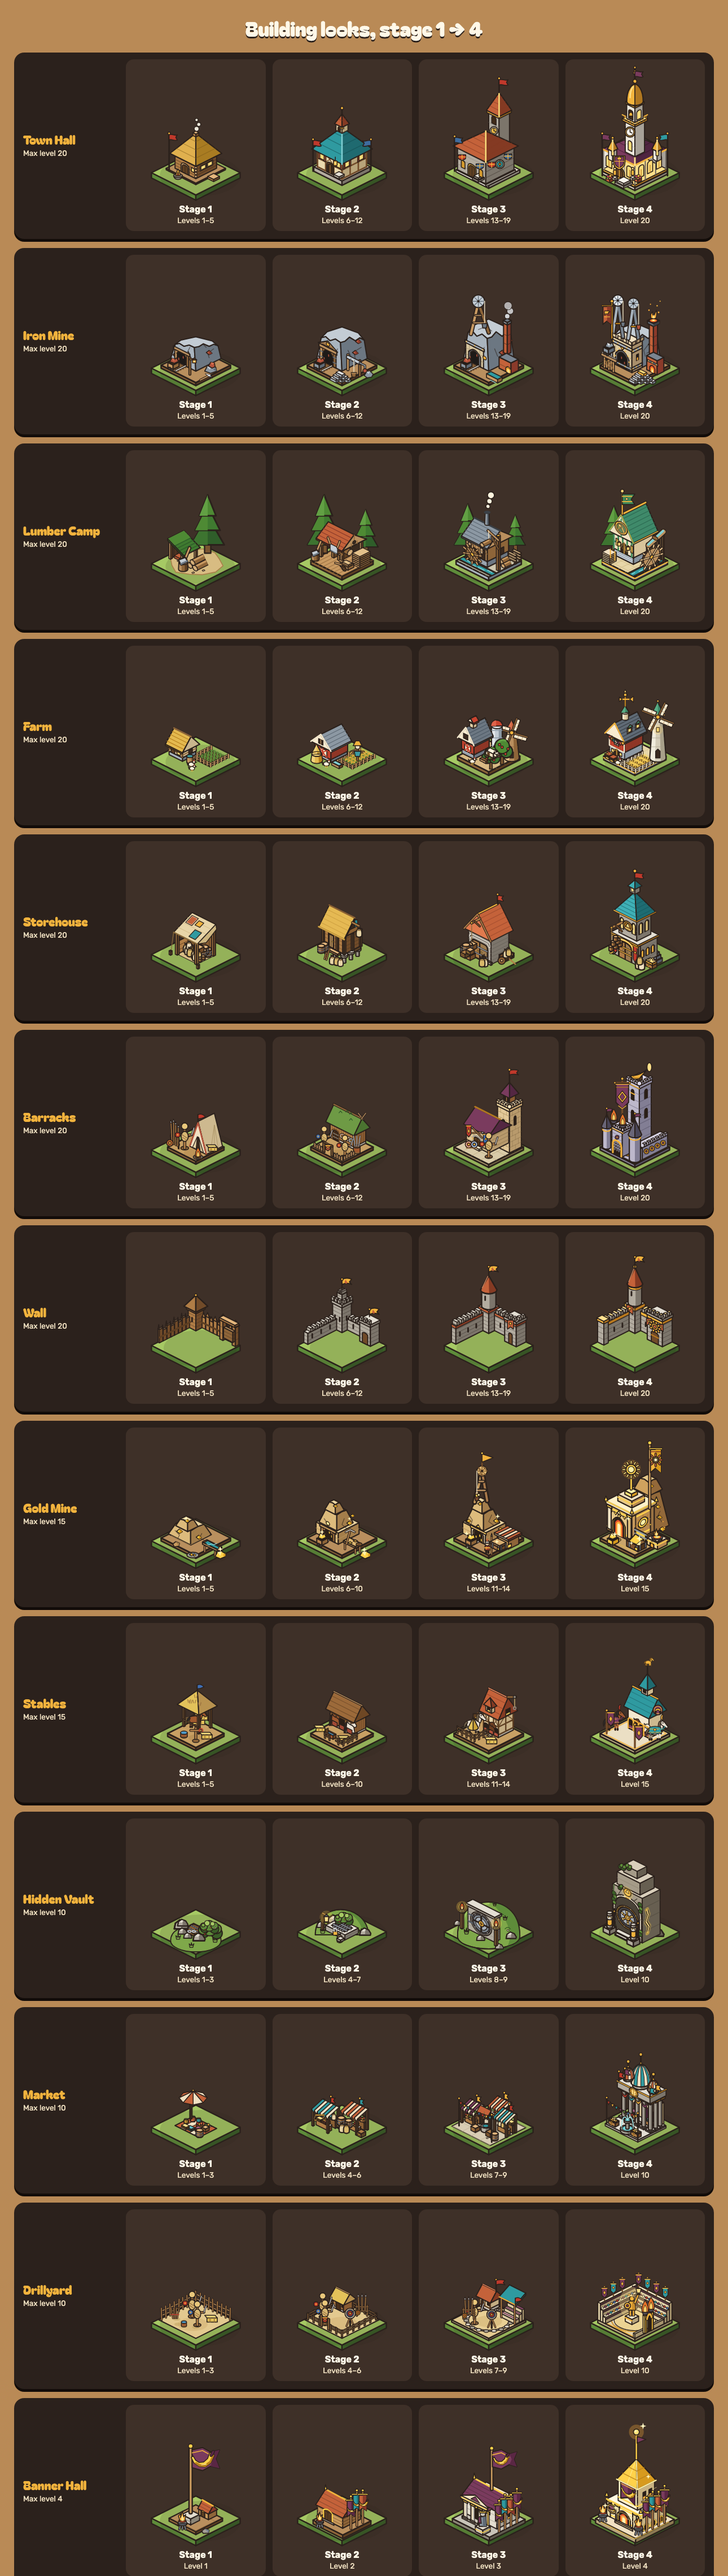
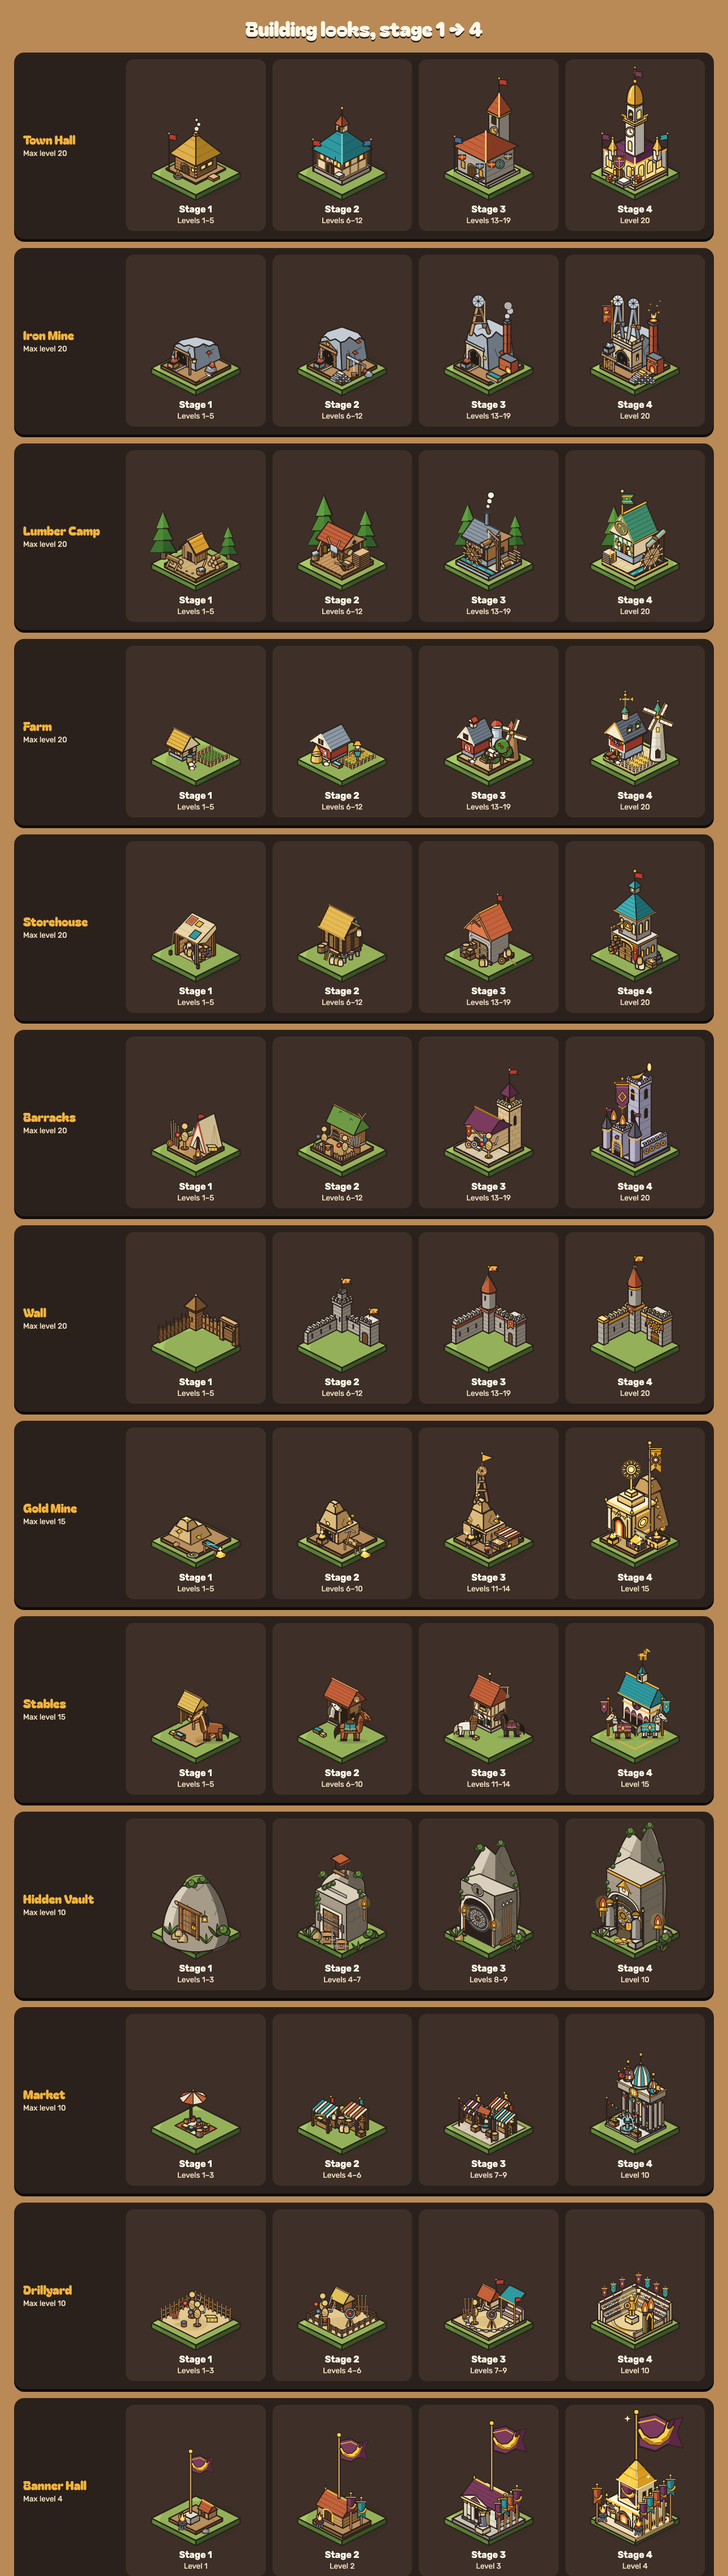
Docs: changelog and next steps for the building art touch-ups; comparison images

diff --git a/design/proposals/building-stages/compare.html b/design/proposals/building-stages/compare.html
@@ -38,7 +38,10 @@ const B = [
 const v = Date.now();
 const src = f => `../../../apps/web/src/art/buildings/${f}.svg?v=${v}`;
 const r = (a,b) => a===b ? `Level ${a}` : `Levels ${a}–${b}`;
-document.getElementById('list').innerHTML = B.map(([n,f,max,t1,t2,nw]) => {
+// ?only=stables,farm shows just those buildings (by file stem).
+const only = new URLSearchParams(location.search).get('only');
+const pick = only ? B.filter(b => only.split(',').includes(b[1])) : B;
+document.getElementById('list').innerHTML = pick.map(([n,f,max,t1,t2,nw]) => {
   const ranges = [r(1,t1), r(t1+1,t2), r(t2+1,max-1), r(max,max)];
   return `<div class="b"><div class="name">${n}<small>Max level ${max}</small></div>` +
     ranges.map((rg,i) => `<div class="st"><img src="${src(f+'-'+(i+1))}" data-f="${f}" data-s="${i+1}" alt="${n} stage ${i+1}"><b>Stage ${i+1}</b><span>${rg}</span></div>`).join('') +

diff --git a/NEXT_STEPS.md b/NEXT_STEPS.md
@@ -3,7 +3,7 @@
 Current open work and decisions only (history goes in `CHANGELOG.md`). Newest priorities first.
 
 ## Decisions for the owner
-- **New building art (4 looks, 2026-11-06, `4e0d484`): owner to touch up.** All 13 redrawn; compare at `design/proposals/building-stages/compare.html` (image `building-looks-compare.png`). Viewed in the village at stages 2 and 4 (360 + 1440 px); stages 1 and 3 only on the sheet. Known small issues: Farm 3 crowded, Storehouse 4 tall and slim, Stables 2 horse heads tiny, Barracks/Farm/Gold Mine/Banner Hall look 4 files 13–14.5 KB; stage-4 labels use the stage-3 roof height (`ROOF_TOP` in `buildings.ts`); map-view village sprites are unchanged. Homepage mockup (`design/proposals/homepage/`) waits until the owner returns to it.
+- **New building art (4 looks, 2026-11-06, `4e0d484`): owner to touch up.** All 13 redrawn; compare at `design/proposals/building-stages/compare.html` (image `building-looks-compare.png`). Viewed in the village at stages 2 and 4 (360 + 1440 px); stages 1 and 3 only on the sheet. Owner touch-ups done for Lumber Camp 1, Stables, Hidden Vault, Banner Hall (`bdf9549`). Known small issues: Farm 3 crowded, Storehouse 4 tall and slim, Stables horses large next to the building, Vault 4 guardians cover part of the gold door, several look-3/4 files 13–14.7 KB; stage-4 labels use the stage-3 roof height (`ROOF_TOP` in `buildings.ts`); map-view village sprites are unchanged. Homepage mockup (`design/proposals/homepage/`) waits until the owner returns to it.
 - **Raiding balance (2026-11-06, BALANCE.md §11).** With about 2 abandoned villages per new player the sim raider scores 2.07x the builder, 2nd village day 18.9 (targets 1.5-2x, day 21-28). Owner may go to ~1.4 per player (sim 1.68x, day 20.5) or keep it; real worlds share targets between neighbours, so the real gap is likely smaller. Preview app still uses its own density 0.025.
 - **Flaky test:** `apps/server/test/restart.test.ts` "queued recruits, a raid in flight" failed once in a full run (passes alone and in 3 later runs); find the timing dependence.
 - **Per-world settings built 2026-11-05 (`GAME_DESIGN` §19); open follow-ups.** (1) **Owner: look at the World rules page** (account menu, `#rules`) at 360 and 1440 px (not viewed). (2) Owner to confirm the **safe list after opening** (`domination.*`, `tribe.maxMembers`, `features.scavenging`, `features.paidSpeedups`) and that "open" = `world-open` or the first player (a dev database with players counts as open). (3) Dev: `morale`, `scavenging`, `paidSpeedups` are flags only (build them per `GENRE_COMPARISON.md` §4 / §18.11); still constants and candidates for the config: unit stats and costs, abandoned-village production, `HOLD_MIN_POPULATION`, Chieftain limits, siege numbers, Renown rates, rate limits; lobby `world-add` does not set world rules (the lobby cannot reach a world's database): use `WORLD_CONFIG` in the world's env file when a world is created. (4) Dev: add a read-only rules link to the lobby world list; the web page for an operator to edit rules is deliberately not built.

diff --git a/CHANGELOG.md b/CHANGELOG.md
@@ -3,6 +3,7 @@
 Rolling, human-readable history of notable changes, newest first. Lets any AI session (or person)
 pick up context without the old conversation. Full detail is in `git log`. See `AGENTS.md` for the rule.
 
+- 2026-11-06 (`bdf9549`) — Art touch-ups (owner): Lumber Camp look 1 redrawn (neat hut, log pile, sawhorse); Stables show a horse in every look, gear grows from halter to full armour (level 15; visual only, no horse-armour rule); Hidden Vault 1–4 redrawn (rock cellar, stone bunker, cliff strongroom with round iron door, gold vault tallest); Banner Hall height, banner size and flag count grow in order (1/3/5/7). Comparison page takes `?only=<file stems>`; close-up image `touch-ups.png`. Viewed in the village at stage 1 (1440 px). Tests 1,216 green; build + preview build pass.
 - 2026-11-06 (`38b6ad6`, `4e0d484`) — Owner: 4 looks per building, the 4th only at the max level (1–5 / 6–12 / 13–19 / 20 for 20-level buildings; 1–5 / 6–10 / 11–14 / 15; Vault 1–3 / 4–7 / 8–9 / 10; Market, Drillyard 1–3 / 4–6 / 7–9 / 10; Banner Hall 1 / 2 / 3 / 4); a missing look-4 file falls back to look 3; the wall's grand look now at level 20 only (was 18+). All 13 buildings redrawn so each look changes materials, shape and details (owner: old looks "only grew"); Banner Hall has real art. Preview menu "Show all buildings" (Stage 1–4) for the test village; comparison page `design/proposals/building-stages/compare.html`. Viewed in the village at stages 2 and 4 (360 + 1440 px). Tests 1,216 green; build + preview build pass.
 - 2026-11-06 (`5e36b82`) — Village: animated campfire in front of the Town Hall (owner liked the homepage-mockup fire): flickering flames + outlined smoke puffs, CSS only, static under reduced motion, cold ash mound when the hearth is out (`scenery.tsx` `fireItem`). Viewed at 360 px; hearth-out look not viewed. Design proposals added (not in the app): homepage mockup `design/proposals/homepage/` (owner: homepage later), building-stage sheet `design/proposals/building-stages/` (all 13 buildings x 3 looks). Tests 1,211 green; build passes.
 - 2026-11-06 (`20f0aa1`) — Owner: fewer abandoned villages and fair starts. New worlds: about 2 abandoned villages per new player (was ~3.6), start rings 5 + 8 (was 8 + 14), scattered density 0.01; per-world `terrain.amount` (0 flat, 1 = today's map exactly, up to 1.5); fair start spots (radius 4: at least 70% buildable, at most 40% slow ground; 100% of 900 sampled spots pass, registration never fails), also for restarts. Old worlds keep their numbers and map. Sim: raider/builder 3.0x -> 2.07x, raider 2nd village day 15.7 -> 18.9. Tests 1,211 green; build + preview build pass. Web map not viewed.
